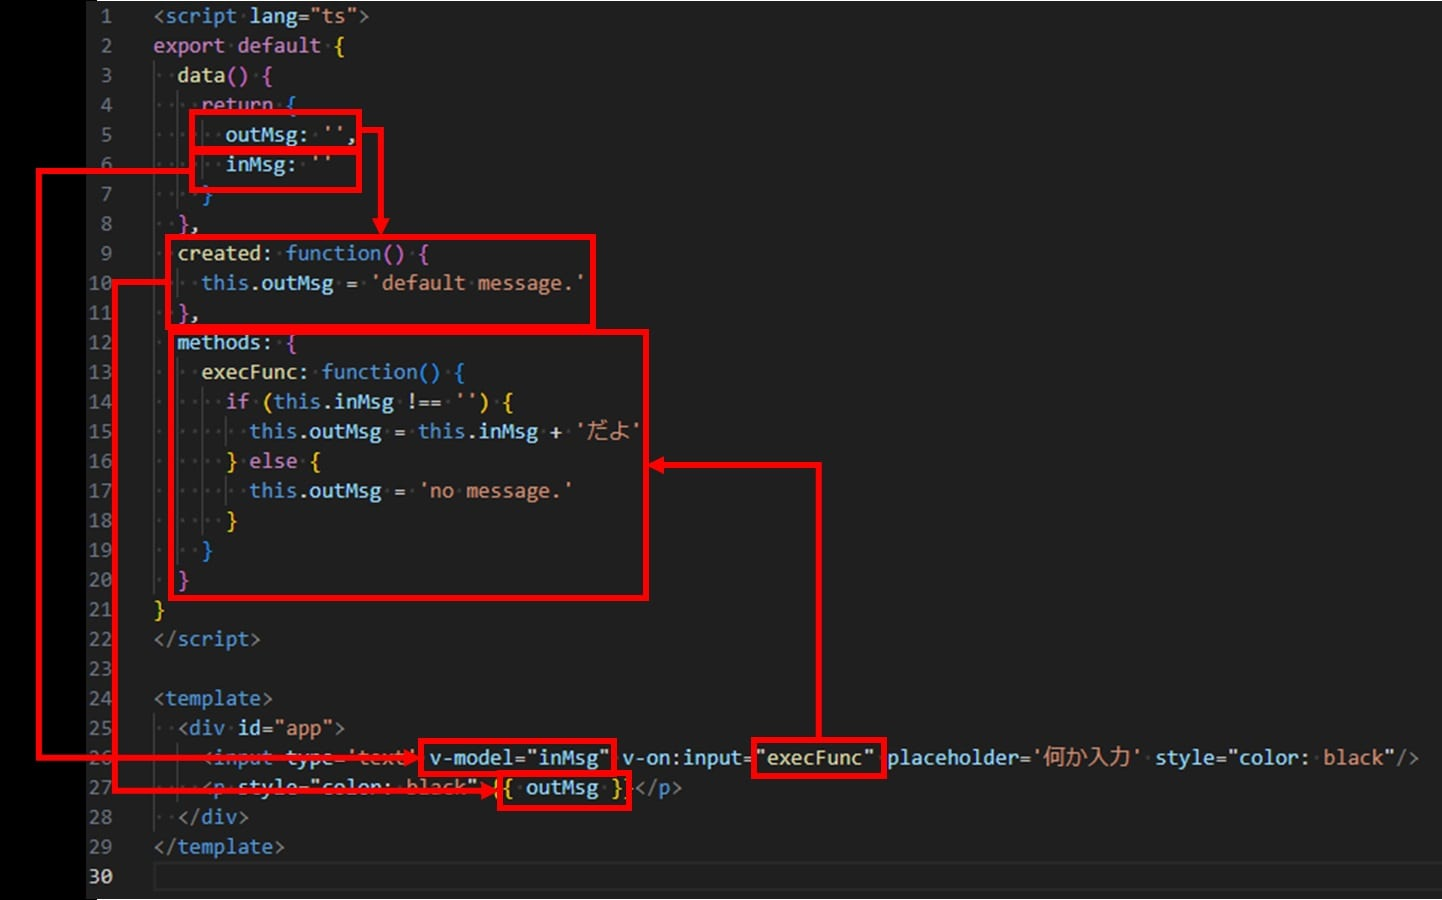
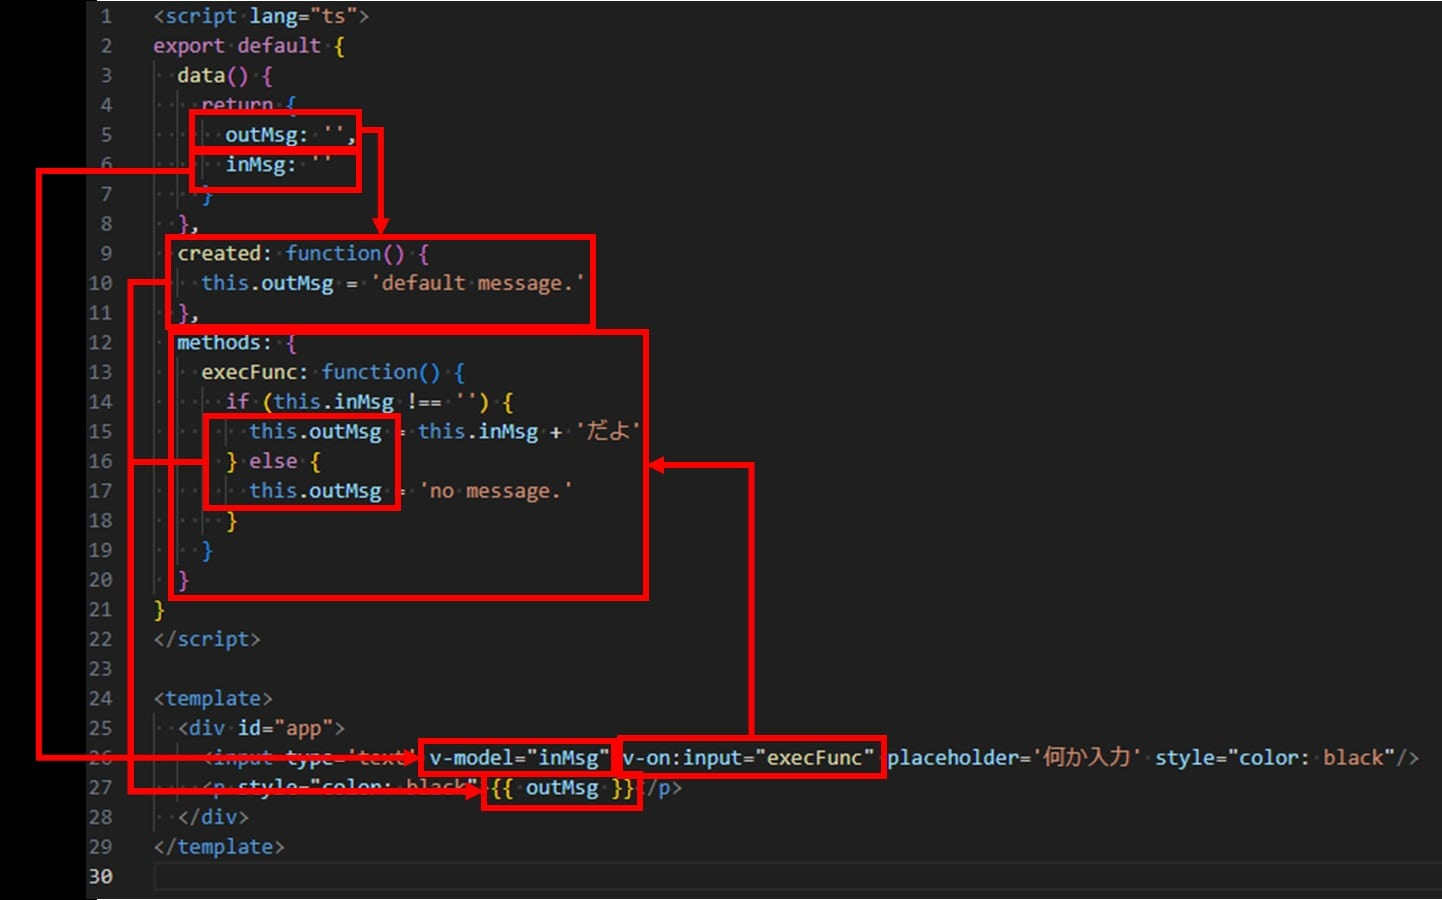
JavaScriptの記事修正

Changed region(s): [[0.0624, 0.3111, 0.2809, 0.9022], [0.3121, 0.4978, 0.6241, 0.9022]]

diff --git a/contents/development/javascript/spa/vue/vue_nuxt.html b/contents/development/javascript/spa/vue/vue_nuxt.html
@@ -50,6 +50,8 @@
       <li><a href="#vue">Vue.js</a></li>
       <li><a href="#sfc">SFC</a></li>
       <li><a href="#hooks">フック</a></li>
+      <li><a href="#mustache">マスタッシュ構文</a></li>
+      <li><a href="#directive">ディレクティブ</a></li>
       <li><a href="#file_path_router">ファイルパスルータ</a></li>
       <li><a href="#nuxt">Nuxt</a></li>
       <li><a href="#rendering">レンダリング</a></li>
@@ -78,6 +80,8 @@
         <li><a href="#vue">Vue.js</a></li>
         <li><a href="#sfc">SFC</a></li>
         <li><a href="#hooks">フック</a></li>
+        <li><a href="#mustache">マスタッシュ構文</a></li>
+        <li><a href="#directive">ディレクティブ</a></li>
         <li><a href="#file_path_router">ファイルパスルータ</a></li>
         <li><a href="#nuxt">Nuxt</a></li>
         <li><a href="#rendering">レンダリング</a></li>
@@ -132,7 +136,7 @@
         <h3 class="title">Vue.js</h3>
         <p>
           Vue.jsは、DOM要素とJavaScriptのデータを結びつけるリアクティブなデータバインディングを提供するフレームワークです。2014年にリリースされました。<br/>
-          リアクティブ・プログラミングを特徴としています。リアクティブとは、「何かの値が変化するとそれがすぐに反映される仕組み」のことです。<br/>
+          リアクティブ・プログラミングを特徴としています。リアクティブとは、『何かの値が変化するとそれに連動して表示内容が自動で変化する仕組み』のことです。<br/>
           2020年9月にVue3がリリースされましたが、その時点では、Vueに付随する主要なモジュールがバージョン3未対応のままという状態でした。<br/>
           2022年2月7日に主要なモジュールも含めて、Vueを作成するプロジェクトのデフォルトのバージョンが3になりました。Vue3で<a href="../../typescript.html">TypeScript</a>にも対応しました。<br/>
           Vue.jsは、SFC(Single File Components)とVueインスタンスがリアクティブなシステムを作る上でのポイントとなります。<br/>
@@ -275,7 +279,7 @@
           ※ created なんて使わずに <code>outMsg: 'default message.'</code> と定義すればいいのですが、サンプルなので無理矢理ですが created を使ってみました。<br/>
 
           <br/>
-          以下のリンク先で実際に触ることができます。<br/>
+          恐ろしく簡素なページですが、一応以下のリンク先で実際に触ることができます。<br/>
           <a href="https://sagamax.cyou/romasaga3/test" target="_blank" rel="noopener noreferrer">サンプル</a><br/>
 
           <br/>
@@ -322,11 +326,40 @@
         </p>
 
         <br/>
+        <span id="mustache"></span>
+        <h4 class="title">マスタッシュ構文</h4>
+        <p>
+          上記コードの<code>{{ outMsg }}</code> はマスタッシュ構文と呼ばれるもので、スクリプトブロックで用意した変数を表示するための構文です。ここではスクリプトブロック内で宣言した変数 outMsg を表示しています。タグとタグに囲まれた部分（要素のテキスト部分）にしか使えません。<br/>
+        </p>
+
+        <br/>
+        <span id="directive"></span>
+        <h4 class="title">ディレクティブ</h4>
+        <p>
+          <code>v-model</code> や <code>v-on</code> という属性はディレクティブと呼ばれるもので、 template 内の属性にデータや関数などをバインドするものです。<br/>
+          主なディレクティブには以下のようなものがあります。
+        </p>
+
+        <table border="1">
+          <tr><th>ディレクティブ</th><th>役割</th></tr>
+          <tr><td>v-bind</td><td>データバインディング</td></tr>
+          <tr><td>v-on</td><td>イベント処理</td></tr>
+          <tr><td>v-model</td><td>双方向データバインディング</td></tr>
+          <tr><td>v-html</td><td>HTML 文字列表示</td></tr>
+          <tr><td>v-pre</td><td>静的コンテンツ表示</td></tr>
+          <tr><td>v-once</td><td>データバインディングを初回のみに制限</td></tr>
+          <tr><td>v-cloak</td><td>マスタッシュ構文の非表示</td></tr>
+          <tr><td>v-if</td><td>条件分岐</td></tr>
+          <tr><td>v-show</td><td>表示・非表示の制御</td></tr>
+          <tr><td>v-for</td><td>ループ処理</td></tr>
+        </table>
+
+        <br/>
         <span id="file_path_router"></span>
         <h4>ファイルパスルータ</h4>
         <p>
           Vueにはファイルパスルータという機能があります。これは<a href="../react/react_next.html#filebase_routing">Next.jsのファイルベースルーティング</a>と同じものと考えていいと思います。<br/>
-          画面用のコンポーネントは pages フォルダに格納する事になっており、さらにその格納するファイルパスの構造がそのままルーティングパスになります。<br/>
+          pages フォルダ配下に格納するファイルパスの構造がそのままルーティングパスになります。<br/>
         </p>
 
         <br/>
@@ -356,7 +389,7 @@
         <span id="rendering"></span>
         <h4 class="title">レンダリング</h4>
         <p>
-          Nuxtで使えるレンダリングモードとその概要は<a href="../spa.html">こちら</a>に記載しているので、どのようにしてそれを実現するかを以下に記載します。<br/>
+          Nuxtで使えるレンダリングモードとその概要は<a href="../spa.html#rendering">こちら</a>に記載しているので、どのようにしてそれを実現するかを以下に記載します。<br/>
 
           <br/>
           Nuxtでは、<code>nuxt.config.ts</code> に <code>"パス": {レンダリングモード}</code> の形式でページ毎のレンダリング方法を記述することでレンダリング方法を制御します。具体的には以下。
@@ -390,7 +423,7 @@
 
         <p>
           <br/>
-          ssr: true（または記述無し）とすることで、サーバーサイドでレンダリングした後、アプリのユーザと相互のやり取りが必要な処理など、どうしてもクライアントサイドで動作しないと成り立たない処理内容に関しては、クライアントサイドでレンダリングを行います。<br/>
+          ssr: true（または記述無し）とすると、サーバーサイドでレンダリングした後、どうしてもクライアントサイドで動作しないと成り立たない処理（アプリのユーザと相互のやり取りが必要な処理など）に関しては、クライアントサイドでレンダリングを行います。<br/>
         </p>
 
         <br/>
@@ -502,8 +535,9 @@
 
         <br/>
         <p>
-          ゲーム内に登場するキャラクターの一覧が<a href="https://sagamax.cyou/romasaga3/character/characters" target="_blank" rel="noopener noreferrer">こちら</a>。テーブルのヘッダー部分を操作することで表示対象を絞ったり、並び替えができるようになっており、その度に一覧の部分だけが再レンダリングされるようになっています。<br/>
-          また、一覧のキャラクター名がリンクになっていて、そこから当該キャラクターの詳細情報を確認できる画面に遷移できるようになっています（詳細画面の一例は<a href="https://sagamax.cyou/romasaga3/character/detail/julian?destiny=歳星&weapon=なし">こちら</a>）。<br/>
+          ゲーム内に登場する<a href="https://sagamax.cyou/romasaga3/character/characters" target="_blank" rel="noopener noreferrer">キャラクターの一覧がこちら</a>。テーブルのヘッダー部分を操作することで表示対象を絞ったり、並び替えができるようになっており、その度に一覧の部分だけが再レンダリングされるようになっています。<br/>
+          また、一覧のキャラクター名がリンクになっていて、そこから当該キャラクターの詳細情報を確認できる画面に遷移できるようになっています<br/>
+          <!-- （詳細画面の一例は<a href="https://sagamax.cyou/romasaga3/character/detail/julian?destiny=歳星&weapon=なし" target="_blank" rel="noopener noreferrer">こちら</a>）。<br/> -->
           詳細画面ではラジオボタンを選択することで表示する画像が切り替わるようになっている部分があり、これもその部分だけがリアクティブに切り替わるようになっています。<br/>
 
           <br/>

diff --git a/contents/development/javascript/js_index.html b/contents/development/javascript/js_index.html
@@ -215,10 +215,14 @@
         <span id="html5"></span>
         <h4 class="title">HTML5の登場とWebアプリケーションプラットフォーム化</h4>
         <p>
-          HTML5は2014年に勧告された仕様です。HTMLの文書仕様だけでなく、Web全体の仕様をアップデートする大きな動きとなっていきました。HTML5では、Webをアプリケーションプラットフォームとしても機能させられるよう、HTML/CSSやDOM APIに強力な仕様変更が入れられました。<br/>
+          HTML5は2014年に勧告された仕様です。HTMLの文書仕様だけでなく、Web全体の仕様をアップデートする大きな動きとなっていきました。<br/>
+          HTML5では、Webをアプリケーションプラットフォームとしても機能させられるよう、HTML/CSSやDOM APIに強力な仕様変更が入れられました。<br/>
           その中でもHistory APIはこの後のWebアプリケーションの発展において特に重要なモノでした。History APIによって、ページの遷移をWebブラウザではなくJavaScriptでハンドリングできるようになりました。これによってコンテンツを画面遷移なしに、URLや履歴を管理しつつ切り替えるシングルページアプリケーションの構築が可能になりました。<br/>
-          HTML5の登場とそれに伴うライブラリの進化などで、クライアントサイドにおいてもより強力な表現が可能となりました。<br/>
-          これを受けて、プレゼンテーション層のプログラムがサーバーサイドからクライアントサイドにシフトしていきます。従来サーバーサイドで行っていたHTMLの描画が、Web APIで必要なデータを取得すれば、クライアントサイドで可能となったためです。こちらの方が画面遷移の少なさなどによって、より優れた体験を与えられます。<br/>
+          HTML5 の仕様策定には Apple, Mozilla, Opera というブラウザエンジンを開発している組織が関わっていました。このこともあり、これらのベンダがリリースするブラウザは標準に準拠しているのが当たり前という流れが出来上がっていきます。<br/>
+          一方、この頃から、Webの標準に準拠していないIEの利用が避けられることが多くなりました。Microsoftもその状況に対応するために、標準への準拠を謳ったブラウザとして Edge を2015年にリリースします。<br/>
+          この Edge, Chrome, Safari, Firefox といった、Web 標準に準拠したブラウザをモダンブラウザと言います。そして2010年後半には、モダンブラウザがシェアの殆どを占める状況になったおかげで、JavaScriptの仕様が、ECMAScriptへの準拠という形で標準化された状況が出来上がります。<br/>
+          HTML5の登場とそれに伴うライブラリの進化、モダンブラウザの普及などにより、クライアントサイドにおいてもより強力な表現が可能となりました。<br/>
+          これを受けて、プレゼンテーション層のプログラムがサーバーサイドからクライアントサイドにシフトしていきます。従来サーバーサイドで行っていたHTMLの描画が、Web APIで必要なデータを取得すればクライアントサイドで可能となったためです。こちらの方が画面遷移の少なさなどによって、より優れた体験を与えられます。<br/>
         </p>
 
         <br/>
@@ -283,8 +287,8 @@
             package.jsonに"type": "module"を追加する<br/>
             package.jsonは、Node.jsプロジェクトにおいて、そのプロジェクトの情報や依存関係、スクリプトなどの設定を記述するためのファイルです。
 
-<pre class="title"><code class="title">package.json</code></pre>
-<pre><code>{
+<pre class="title" style="margin-left: 0rem"><code class="title">package.json</code></pre>
+<pre style="margin-left: 0rem"><code>{
   "type": "module",
   ...
 }
@@ -394,7 +398,6 @@ console.log(name); // => SOARFLAT
           この問題を解決するために追加された機能が let です。let を使用した場合、同じ変数名を再宣言するとエラーになります。<br/>
         </p>
 
-<br/>
 <pre class="title"><code class="title">letによる変数の宣言</code></pre>
 <pre><code>let name = 'soarflat';
 console.log(name); // => soarflat
@@ -411,7 +414,6 @@ let name = 'SOARFLAT'; // 再宣言するとエラーになる
           const は定数を宣言するためのもので、再宣言はもちろんのこと、再代入もできないようになっています。<br/>
         </p>
 
-<br/>
 <pre class="title"><code class="title">constによる変数の宣言</code></pre>
 <pre><code>const NAME = 'soarflat';
 console.log(NAME); // => soarflat
@@ -480,6 +482,8 @@ NAME = 'SOARFLAT'; // 再代入するとエラーになる
         参考書籍<br/>
         <ul>
           <li><a href="https://amzn.to/3x8wRfv" target="_blank" rel="noopener noreferrer"><img src="./nodejs/img/nodejs入門.jpg" width="200"/><br/>Node.js入門</a></li>
+          <li><a href="https://amzn.to/4986MdE" target="_blank" rel="noopener noreferrer"><img src="./spa/img/vuejs入門.jpg" width="200"/><br/>Vue.js入門 基礎から実践アプリケーション開発まで</a></li>
+          <li><a href="https://amzn.to/3x59PG9" target="_blank" rel="noopener noreferrer"><img src="./spa/img/vue3.jpg" width="200"/><br/>Vue 3　フロントエンド開発の教科書</a></li>
         </ul>
 
         <br/>

diff --git a/contents/development/javascript/nodejs/what_i_made.html b/contents/development/javascript/nodejs/what_i_made.html
@@ -130,12 +130,16 @@
         <ol>
           <li>
             チャンネルポイント使用→webhook→チャット→OBS操作<br/>
-            twitchにはチャンネルポイントという機能があり、（普通こんな使い方はしないと思うのですが）ポイントが使用されたら任意のサーバーに Webhook リクエストを飛ばすこともできます。<br/>
+            Twitch にはチャンネルポイントという機能があり、（普通こんな使い方はしないと思うのですが）ポイントが使用されたら任意のサーバーに Webhook リクエストを飛ばすこともできます。<br/>
             サーバに Webhook が飛んで来たらそれに対応するメッセージをチャットに投げて、そのチャットをトリガーに EventEmitter でローカルの Node.js を稼働させ、WebSocket 経由で OBS を操作しています（下図の赤線の流れ）。<br/>
             <img src="./img/chanel_point.jpg" width="800" /><br/>
 
             <br/>
-            以下がチャンネルポイントを使った例(2h9m35s頃)。 Webhook を受けて「やきつくしてさしあげますわ！」という台詞をbotが喋り、その台詞をトリガーにローカルの Node.js が稼働し、OBS を操作することで画面に炎を表示させたり、音声を流したりしています。<br/>
+            以下がチャンネルポイントを使った例(2h9m35s頃)。<br/>
+            ①TwitchからWebhook を受けて<br/>
+            ②「やきつくしてさしあげますわ！」という台詞をbotが喋り<br/>
+            ③その台詞をトリガーにローカルの Node.js が稼働し<br/>
+            ④OBS を操作することで画面に炎を表示させたり、音声を流したりしています。<br/>
           </li>
           <iframe src="https://player.twitch.tv/?video=2098995290&time=2h9m35s&parent=taumax-github.github.io" frameborder="0" allowfullscreen="true" scrolling="no" height="378" width="620"></iframe>
           <li>

diff --git a/contents/development/javascript/spa/react/react_next.html b/contents/development/javascript/spa/react/react_next.html
@@ -138,7 +138,7 @@
         <h3 class="title">React</h3>
         <p>
           Reactとは、WebサイトやWebアプリのUI部分を開発する際に活用するJavaScriptライブラリです。ReactはMeta (旧Facebook社)が開発し、2013年にオープンソース化されました。<br/>
-          リアクティブ・プログラミングを特徴としています。リアクティブとは、『何かの値が変化したり、何かしらイベントが発生するとそれがすぐに反映される仕組み』のことです。<br/>
+          リアクティブ・プログラミングを特徴としています。リアクティブとは、『何かの値が変化するとそれに連動して表示内容が自動で変化する仕組み』のことです。<br/>
           ReactはJavaScript用のフレームワークと勘違いされることがありますが、実際には上述の通りライブラリとなります。CDN(Contents Delivery Network)経由でhtmlファイル内でReactのライブラリを使用することができます。<br/>
           以下は実際にReactのライブラリを使用して書いたものです。<br/>
           ↓クリックでcounter増加<br/>

diff --git a/contents/development/javascript/nodejs/twitch.html b/contents/development/javascript/nodejs/twitch.html
@@ -345,7 +345,7 @@
           <a href="https://github.com/tmijs/docs/blob/gh-pages/_posts/v1.4.2/2019-03-03-Events.md" target="_blank" rel="noopener noreferrer">github tmijs/docs</a><br/>
 
           <br/>
-          イベントの中には <a href="#webhook">Webhook</a> で拾えるものと被っているものが結構あります。<br/>
+          イベントの中には Webhook で拾えるものと被っているものが結構あります。<br/>
           Webhook よりは tmi.js を使った方が（たぶん）早いので基本的に tmi.js を使えばいいと思いますが、raid は Webhook の方が使い勝手が良いと思います。<br/>
           tmi.js の raid だと、 display_name を設定しているユーザーの場合、display_name のみが返されるため、 user_name を取得できないからです。display_name をキーに user_name を返してくれるAPI は（たぶん）ないので、結構困ります。<br/>
           Webhook であれば user_name と display_name の両方を取得できます。<br/>

diff --git a/contents/development/javascript/typescript.html b/contents/development/javascript/typescript.html
@@ -124,7 +124,7 @@
         <span id="firstly"></span>
         <h3 class="title">はじめに</h3>
         <p>
-          このページは、<a href="../js_index.html">JavaScriptの進化</a>の続きのページです。<br/>
+          このページは、<a href="./js_index.html">JavaScriptの進化</a>の続きのページです。<br/>
           ここではAltJSと、もっとも代表的なAltJSであるTypeScriptにスポットを当てて記載していきます。<br/>
           一応このページから読み進めても問題ないように構成したつもりですが、先のページを見てからの方が、TypeScriptが生まれるまでの背景がわかって面白いかもしれません。<br/>
         </p>

diff --git a/contents/development/javascript/nodejs/nodejs.html b/contents/development/javascript/nodejs/nodejs.html
@@ -439,7 +439,6 @@ nodejs_testファイルの中
         参考書籍<br/>
         <ul>
           <li><a href="https://amzn.to/3x8wRfv" target="_blank" rel="noopener noreferrer"><img src="./img/nodejs入門.jpg" width="200"/><br/>Node.js入門</a></li>
-          <li><a href="https://amzn.to/4986MdE" target="_blank" rel="noopener noreferrer"><img src="../spa/img/vuejs入門.jpg" width="200"/><br/>Vue.js入門 基礎から実践アプリケーション開発まで</a></li>
         </ul>
 
         <br/>
